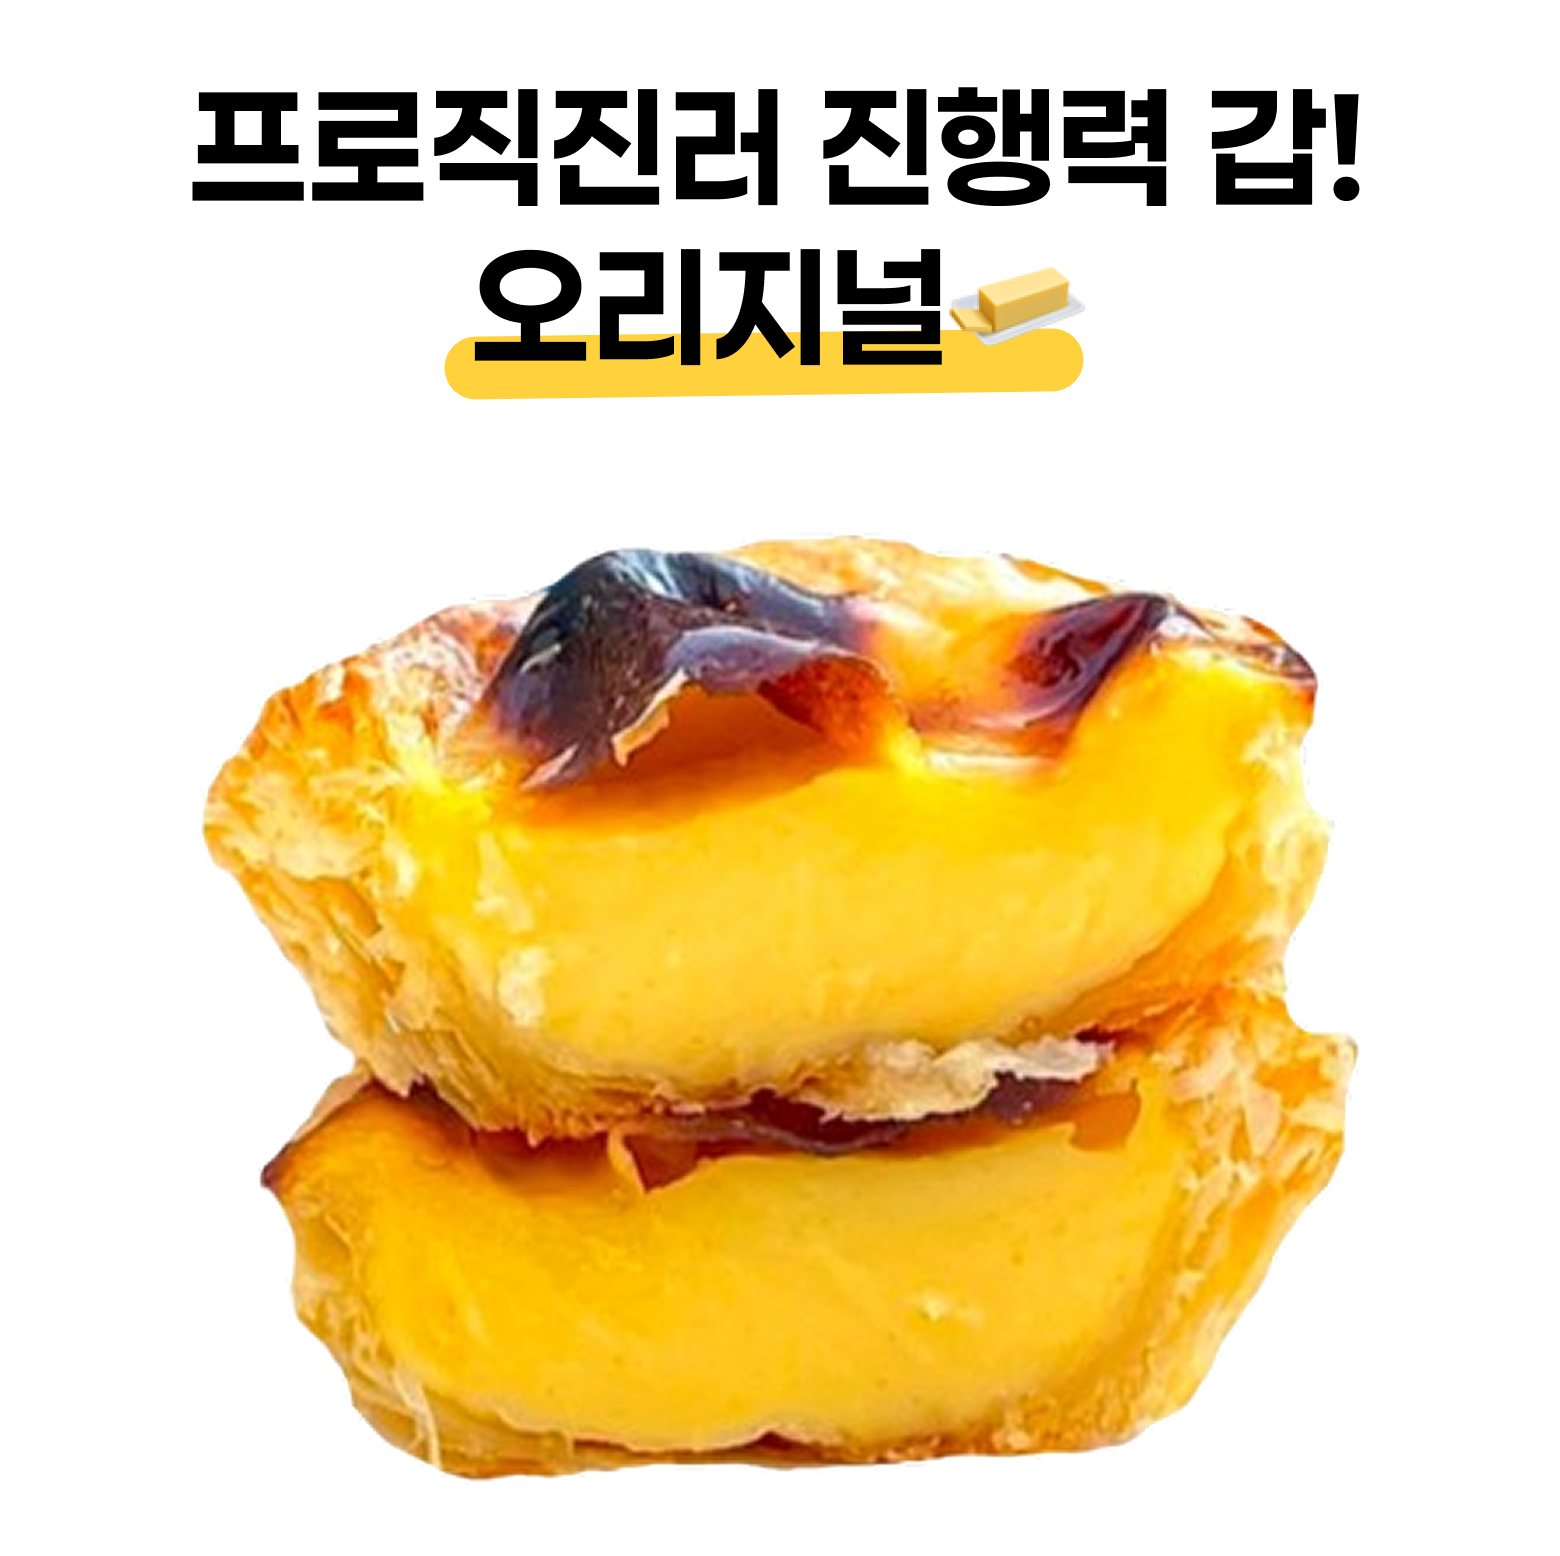
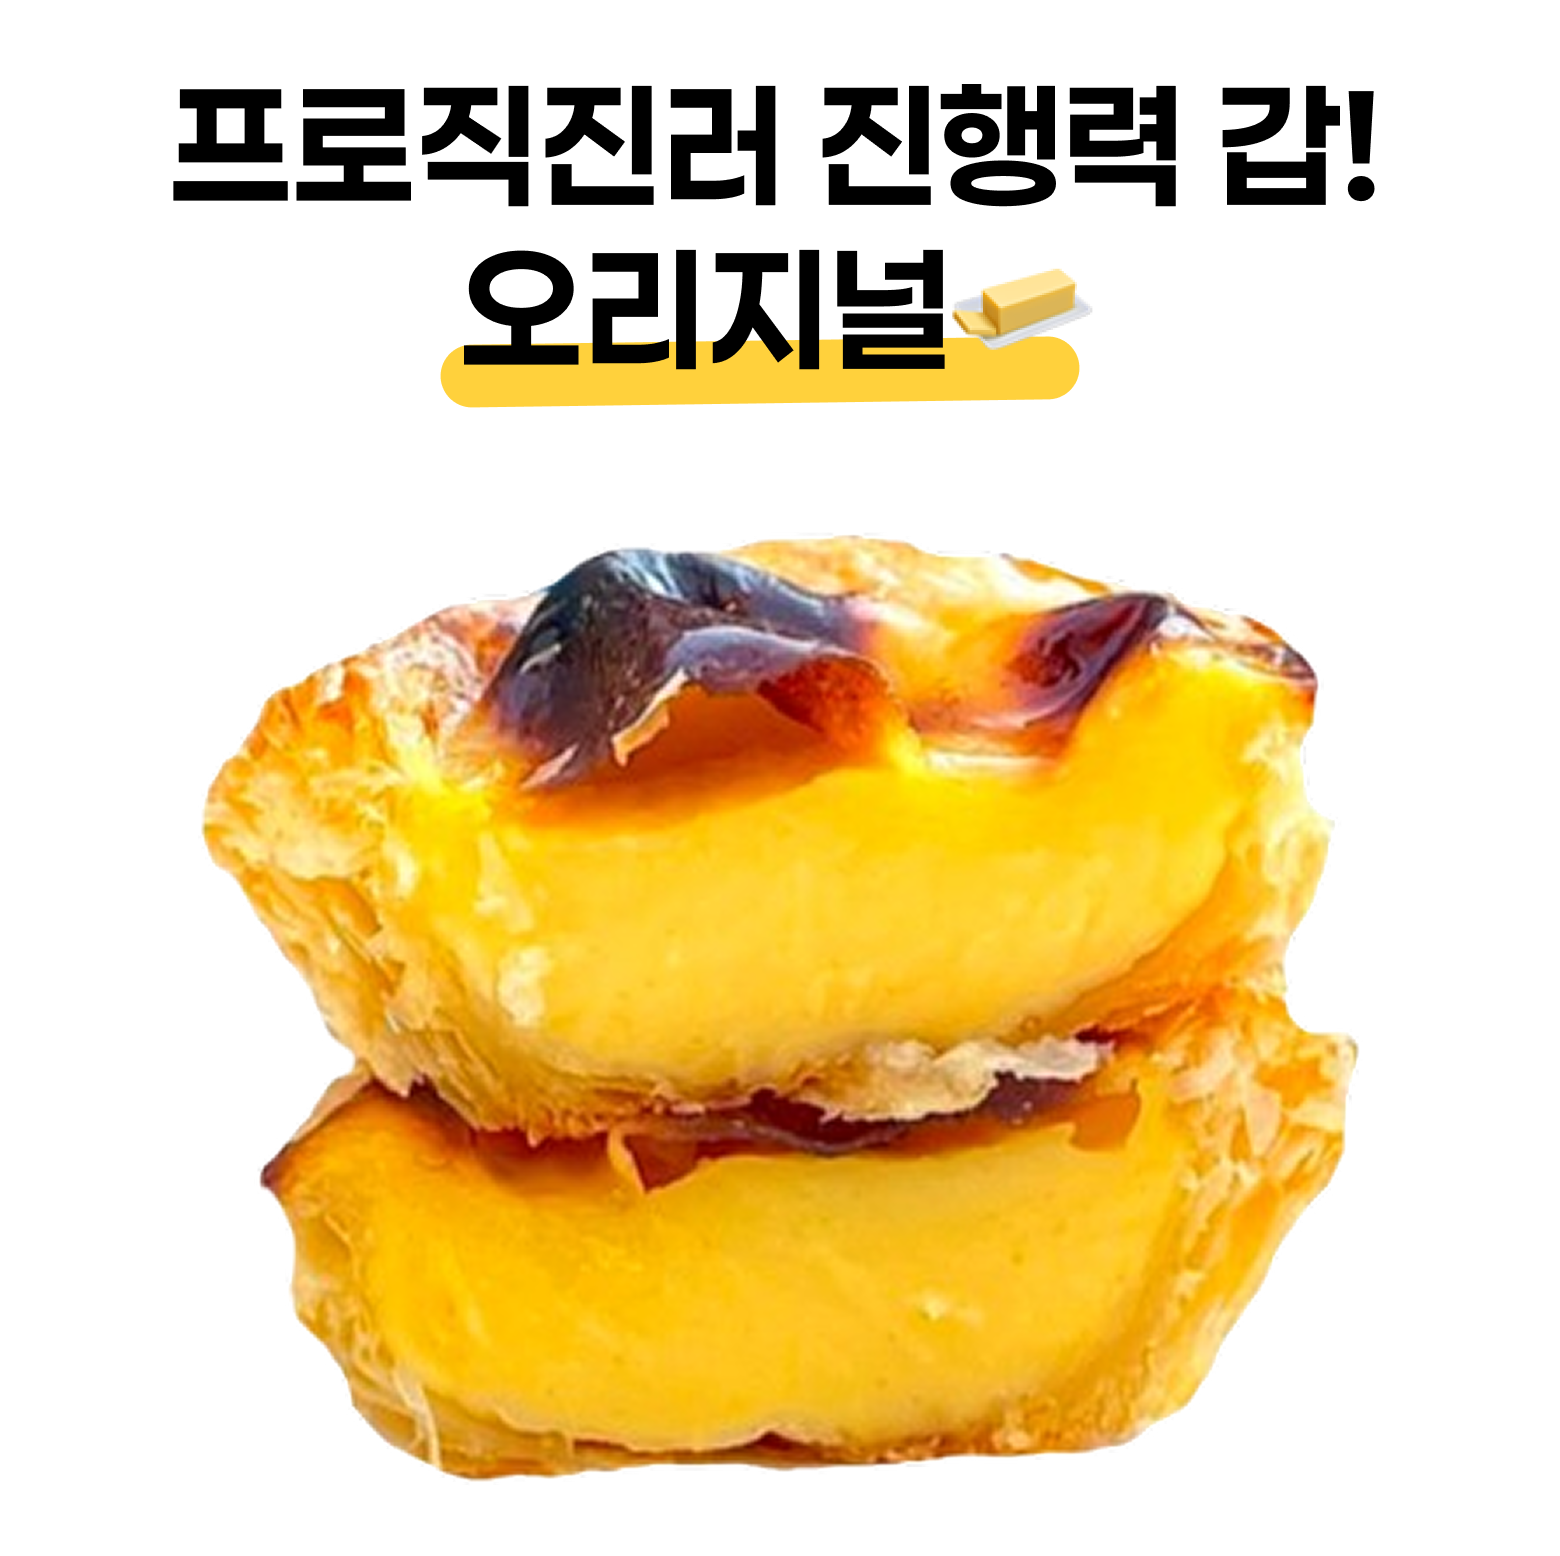
6/24 글씨 크기 수정

Changed region(s): [[0.0923, 0.0308, 0.7077, 0.2776], [0.5538, 0.0308, 0.8923, 0.1542]]

diff --git a/results.html b/results.html
@@ -7,7 +7,9 @@
     window.dataLayer = window.dataLayer || [];
     function gtag(){dataLayer.push(arguments);}
     gtag('js', new Date());
-    gtag('config', 'G-QT1Z2YP647');
+    gtag('config', 'G-QT1Z2YP647',{
+      'page_path': '/'
+    });
   </script>
 
   <!-- GTM -->
@@ -69,15 +71,23 @@
     <img src="" alt="결과 이미지" class="result_img" />
     <img src="" alt="디테일 설명 이미지" class="detail_img" />
 
+    <img src="/images/smartstore_visual1.png" alt="스마트스토어 이미지" class="smartstore_visual1" />
     <a href="https://smartstore.naver.com/hojakjil4445/products/6749631192" target="_blank">
-      <img src="/images/smartstore_visual.png" alt="스마트스토어 이미지" class="smartstore_visual" />
+      <img src="/images/smartstore_visual2.png" alt="스마트스토어 이미지" class="smartstore_visual2" />
     </a>
     <a href="https://smartstore.naver.com/hojakjil4445/products/6749631192" class="smartstore_CTA_btn">지금 보러가기</a>
-    <img src="/images/smartstore_visual2.png" alt="스마트스토어 이미지" class="smartstore_visual2" />
+    <img src="/images/recipe_visual.png" alt="레시피 이미지" class="recipe_visual" />
 
     <!-- 버튼들 -->
     <div class="share_btn share-or-copy">친구에게 공유하기</div>
     <a href="/" class="retest_btn">다시 테스트하기</a>
+
+    <script>
+      document.querySelector('.retry-btn').addEventListener('click', function (e) {
+        e.preventDefault();
+        window.location.href = '/index.html';
+      });
+    </script>
   </div>
 </body>
 </html>

diff --git a/js/questions.js b/js/questions.js
@@ -29,6 +29,7 @@ document.addEventListener('DOMContentLoaded', () => {
     return e_or_i + s_or_n + t_or_f + j_or_p;
   }
 
+
   // 질문 렌더링
   function renderQuestion() {
     const question = questions[currentNumber];
@@ -43,6 +44,15 @@ document.addEventListener('DOMContentLoaded', () => {
       choice1El.innerHTML = question.choices[0].text;
       choice2El.innerHTML = question.choices[1].text;
       progressValueEl.style.width = ((currentNumber + 1) / questions.length) * 100 + '%';
+      
+       // gtag 이벤트 트래킹
+      gtag('event', 'question_view', {
+        question_number: question.number,
+        question_index: currentNumber + 1,
+        event_category: 'progress',
+        event_label: '질문 도달',
+        value: currentNumber + 1
+      });
     }
   }
 

diff --git a/css/results.css b/css/results.css
@@ -31,15 +31,23 @@ body {
 
 
 /* 스마트스토어 마케팅 이미지 */
-.smartstore_visual {
+.smartstore_visual1 {
+  display: block;
+  width: 100%;
+  height: auto;
+  margin: 20px auto 0px;
+}
+
+/* 스마트스토어 마케팅 이미지 */
+.smartstore_visual2 {
   display: block;
   width: 100%;
   height: auto;
   margin: auto;
 }
 
-/* 스마트스토어 마케팅 이미지 */
-.smartstore_visual2 {
+/* 레시피 이미지 */
+.recipe_visual {
   display: block;
   width: 100%;
   height: auto;
@@ -55,7 +63,7 @@ body {
   width: 100%;
   max-width: 250px;
   height: 55px;
-  font-size: 15px;
+  font-size: 16.5px;
   font-weight: 600;
   background-color: #FF8D00;
   color: #000000;
